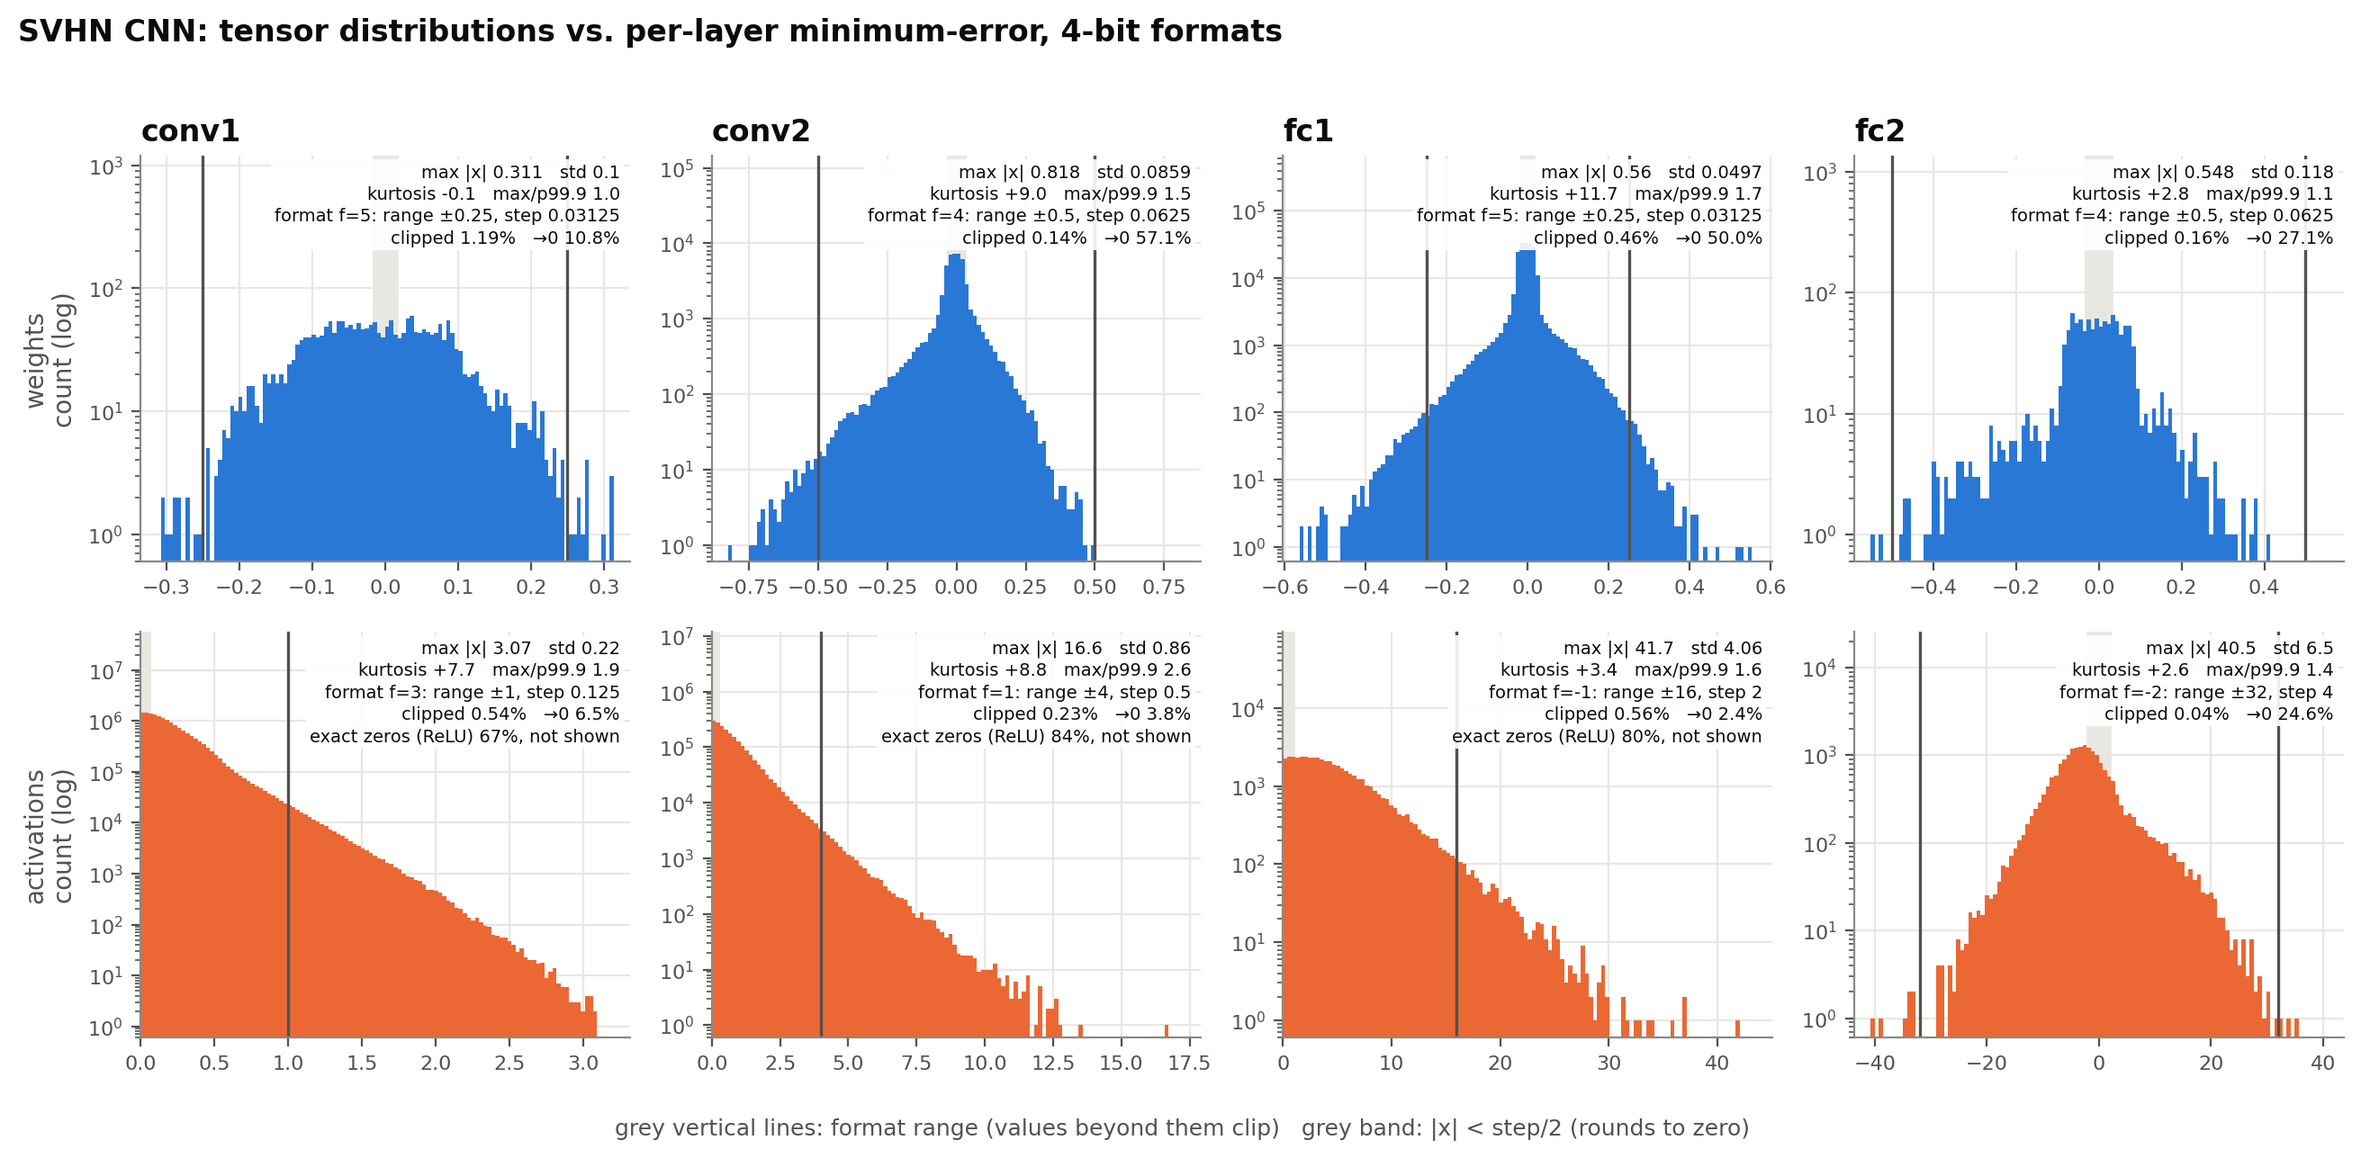
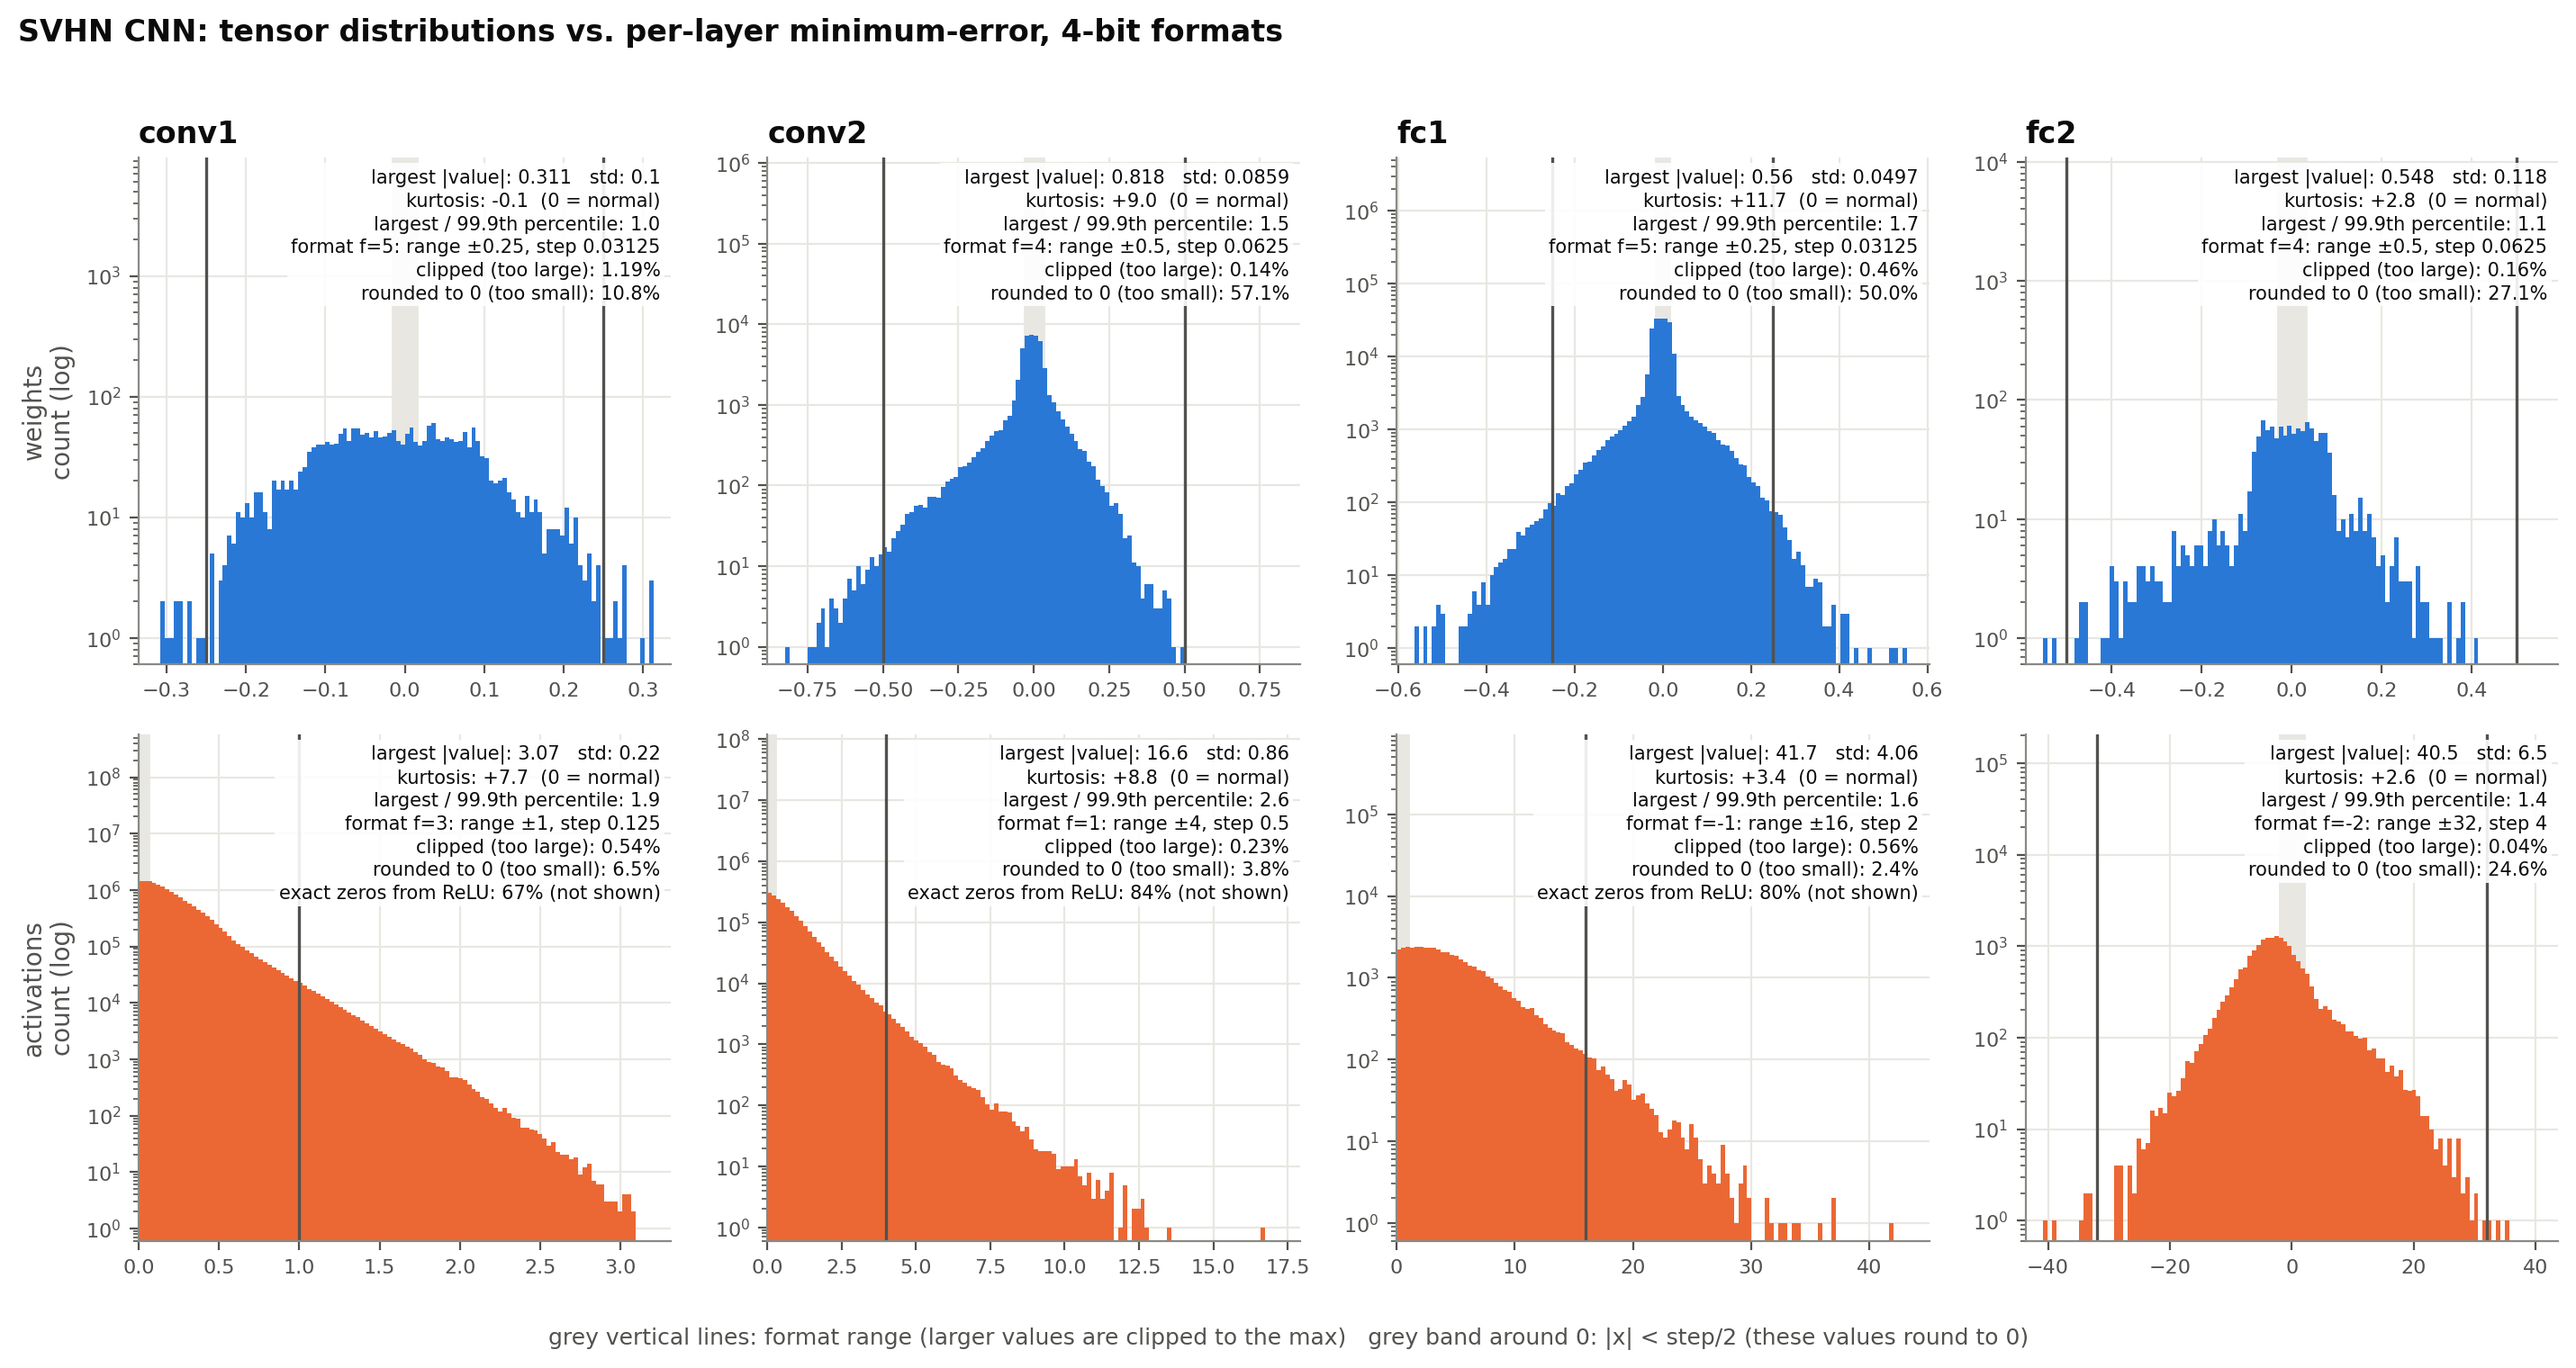
Spell out the statistics in the distribution figures
"->0" read as clipping. Each box now names both effects separately --
"clipped (too large)" and "rounded to 0 (too small)" -- and spells out
the largest value, kurtosis (0 = normal) and the outlier ratio.

diff --git a/experiments/distributions_normalization/run_tensor_distributions.py b/experiments/distributions_normalization/run_tensor_distributions.py
@@ -150,7 +150,7 @@ def summarise(model_key, t):
 def plot_model(model_key, t, rows):
     apply_style()
     n = len(t["names"])
-    fig, axes = plt.subplots(2, n, figsize=(3.3 * n, 6.4), squeeze=False)
+    fig, axes = plt.subplots(2, n, figsize=(3.6 * n, 7.6), squeeze=False)
 
     for col, name in enumerate(t["names"]):
         for row_idx, (role, color) in enumerate([("weights", SLOT_1), ("activations", SLOT_2)]):
@@ -163,7 +163,7 @@ def plot_model(model_key, t, rows):
             hi = max(s["max_abs"], s["range"]) * 1.08
             counts, _, _ = ax.hist(shown, bins=120, range=(lo, hi), color=color, log=True, linewidth=0)
             # headroom on the log axis so the statistics box sits above the bars
-            ax.set_ylim(0.6, counts.max() * 10 ** (1.6 if s["relu"] else 1.3))
+            ax.set_ylim(0.6, counts.max() * 10 ** (2.6 if s["relu"] else 2.2))
 
             # the format: clipping limits and the band that rounds to zero
             for edge in (-s["range"], s["range"]):
@@ -173,14 +173,16 @@ def plot_model(model_key, t, rows):
             ax.set_xlim(lo, hi)
             ax.grid(False, which="minor")
 
-            lines = [f"max |x| {s['max_abs']:.3g}   std {s['std']:.3g}",
-                     f"kurtosis {s['excess_kurtosis']:+.1f}   max/p99.9 {s['max_over_p99_9']:.1f}",
-                     f"format f={s['fractional_bits']}: range ±{s['range']:g}, step {s['step']:g}",
-                     f"clipped {100 * s['clipped_fraction']:.2f}%   →0 {100 * s['rounded_to_zero_fraction']:.1f}%"]
+            lines = [f"largest |value|: {s['max_abs']:.3g}   std: {s['std']:.3g}",
+                     f"kurtosis: {s['excess_kurtosis']:+.1f}  (0 = normal)",
+                     f"largest / 99.9th percentile: {s['max_over_p99_9']:.1f}",
+                     f"format f={s['fractional_bits']}: range \u00b1{s['range']:g}, step {s['step']:g}",
+                     f"clipped (too large): {100 * s['clipped_fraction']:.2f}%",
+                     f"rounded to 0 (too small): {100 * s['rounded_to_zero_fraction']:.1f}%"]
             if s["relu"]:
-                lines.append(f"exact zeros (ReLU) {100 * s['exact_zero_fraction']:.0f}%, not shown")
+                lines.append(f"exact zeros from ReLU: {100 * s['exact_zero_fraction']:.0f}% (not shown)")
             ax.text(0.98, 0.98, "\n".join(lines), transform=ax.transAxes, ha="right", va="top",
-                    fontsize=7, color=INK, linespacing=1.35,
+                    fontsize=7.5, color=INK, linespacing=1.35,
                     bbox=dict(facecolor="white", edgecolor="none", alpha=0.9, pad=1.5))
 
             if row_idx == 0:
@@ -192,8 +194,9 @@ def plot_model(model_key, t, rows):
     fig.suptitle(f"{DISPLAY[model_key]}: tensor distributions vs. {t['format_label']} formats",
                  x=0.01, ha="left", fontsize=12, fontweight="semibold", color=INK)
     fig.tight_layout(rect=(0, 0.04, 1, 0.97))
-    fig.text(0.5, 0.01, "grey vertical lines: format range (values beyond them clip)   "
-                        "grey band: |x| < step/2 (rounds to zero)", ha="center", color=INK_SECONDARY, fontsize=9)
+    fig.text(0.5, 0.01, "grey vertical lines: format range (larger values are clipped to the max)   "
+                        "grey band around 0: |x| < step/2 (these values round to 0)",
+             ha="center", color=INK_SECONDARY, fontsize=9)
     path = os.path.join(RESULTS_DIR, f"distributions_{model_key}.png")
     fig.savefig(path)
     plt.close(fig)
